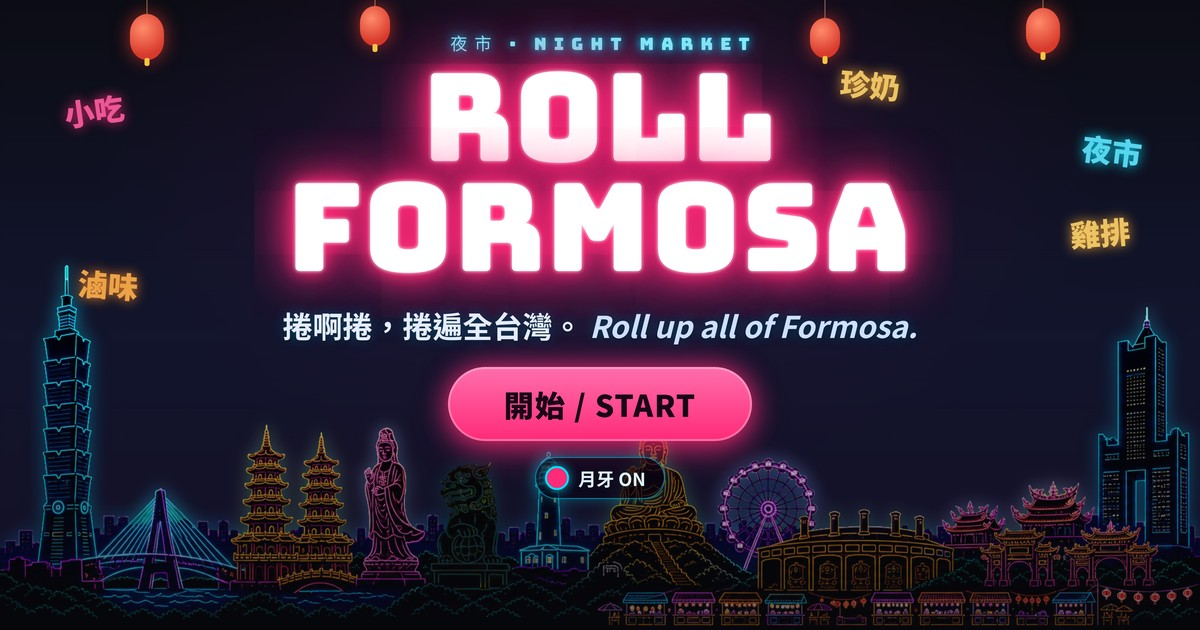
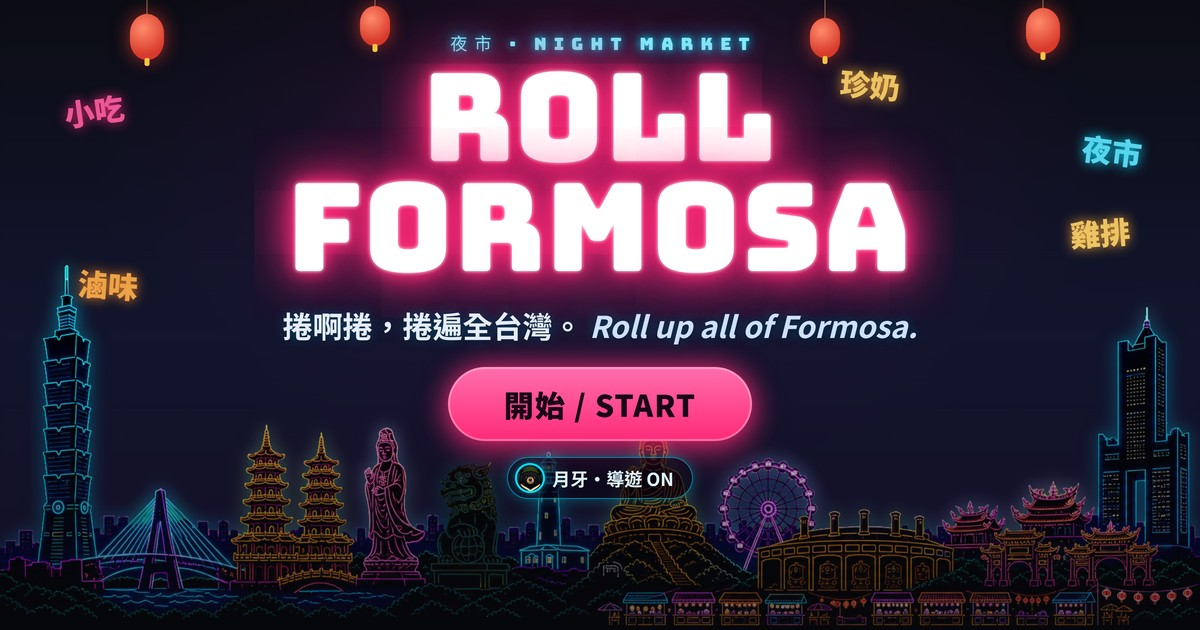
fix(og): 月牙 pill 改用真月牙頭像 + 補『導遊』
OG 卡的『月牙 ON』原本是隨便的圓點、又漏了『導遊』。改成真月牙(台灣黑熊)
頭像(donack/idle-0.webp,圓形+青藍環,對齊遊戲 .donack-toggle-face)+
標籤改成『月牙·導遊 ON』,跟標題頁一致。重截 og.jpg。

Changed region(s): [[0.4008, 0.7238, 0.5858, 0.8143]]

diff --git a/og-card.html b/og-card.html
@@ -41,7 +41,7 @@
     box-shadow:0 0 0 2px rgba(255,255,255,.3) inset,0 0 26px rgba(255,42,120,.8),0 10px 34px rgba(255,42,120,.5); }
   .pill { margin-top:16px; display:inline-flex; align-items:center; gap:9px; font-weight:700; font-size:18px; color:#dff6ff;
     padding:7px 18px 7px 9px; border-radius:30px; background:rgba(8,4,22,.6); border:1px solid rgba(0,221,255,.55); box-shadow:0 0 14px rgba(0,221,255,.3); }
-  .pill .ball{ width:24px; height:24px; border-radius:50%; background:#ff2a78; border:2px solid #00e0ff; box-shadow:0 0 10px rgba(0,224,255,.7); }
+  .pill .ball{ width:26px; height:26px; border-radius:50%; object-fit:cover; box-shadow:0 0 0 2px #00e0ff,0 0 12px rgba(0,224,255,.7); }
 </style>
 </head>
 <body>
@@ -66,7 +66,7 @@
     <div class="title">ROLL<br>FORMOSA</div>
     <div class="sub">捲啊捲，捲遍全台灣。 <em>Roll up all of Formosa.</em></div>
     <div class="start">開始 / START</div>
-    <div class="pill"><span class="ball"></span>月牙 ON</div>
+    <div class="pill"><img class="ball" src="/assets/donack/idle-0.webp" />月牙·導遊 ON</div>
   </div>
 </div>
 </body>
